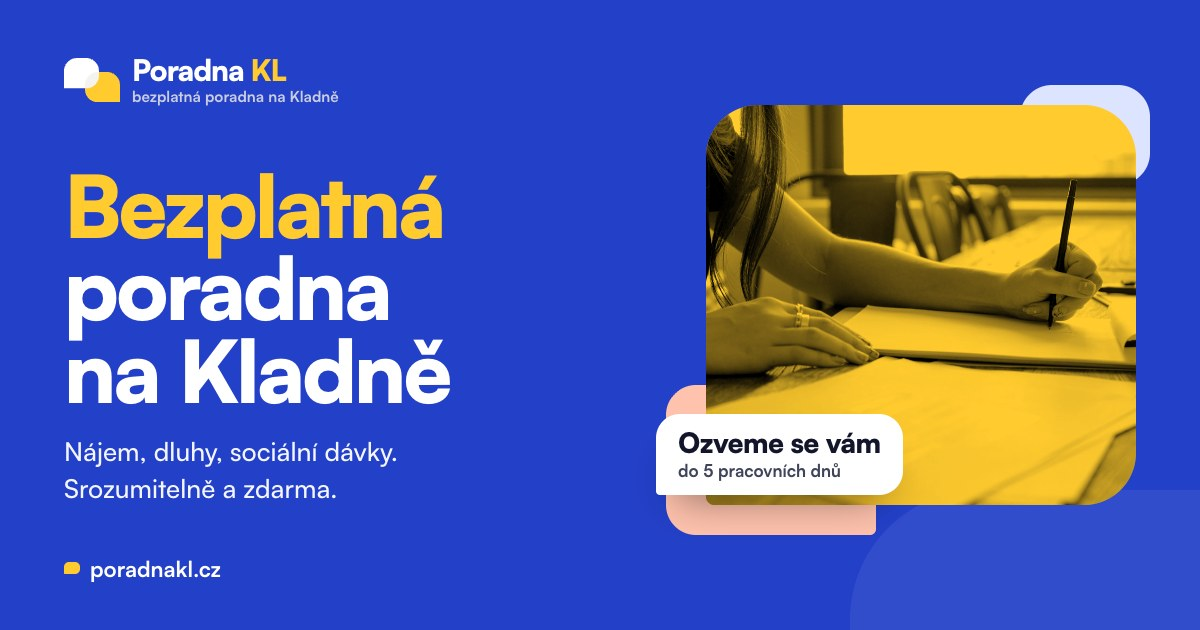
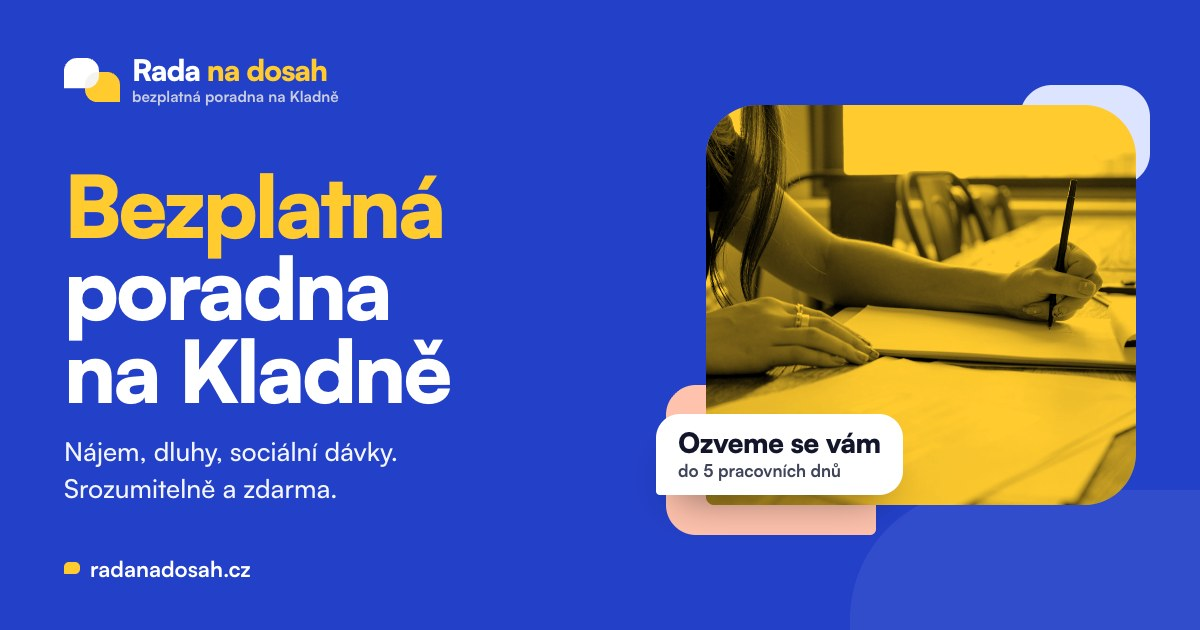
Nový název Rada na dosah, přepínač barev nejde skrýt natrvalo
- logo, titulky, meta, JSON-LD, OG obrázek, e-mail a doména radanadosah.cz
- přepínač: skrytí jen do zavření záložky, staré trvalé skrytí se ruší
- menu hamburger pod 1360 px (delší logo), JS a CSS hranice sjednocené
- menší logo na úzkých telefonech

Changed region(s): [[0.1233, 0.0905, 0.2775, 0.1508], [0.0617, 0.8746, 0.2158, 0.9349]]

diff --git a/assets/js/site.js b/assets/js/site.js
@@ -1,4 +1,4 @@
-/* Poradna KL – drobná vylepšení. Web funguje i bez JavaScriptu. */
+/* Rada na dosah – drobná vylepšení. Web funguje i bez JavaScriptu. */
 (function () {
   'use strict';
 
@@ -15,7 +15,7 @@
     var btn = $('.nav-toggle');
     var nav = $('#hlavni-menu');
     if (!btn || !nav) return;
-    var mq = window.matchMedia('(max-width: 1179px)');
+    var mq = window.matchMedia('(max-width: 1359px)');
     var label = btn.querySelector('span');
 
     function setOpen(open, returnFocus) {
@@ -147,7 +147,7 @@
     if (chyba) {
       status.className = 'form-status form-status--error';
       status.textContent = chyba === 'odeslani'
-        ? 'Zprávu se nepodařilo odeslat. Zkuste to prosím znovu, nebo napište na info@poradnakl.cz.'
+        ? 'Zprávu se nepodařilo odeslat. Zkuste to prosím znovu, nebo napište na info@radanadosah.cz.'
         : 'Formulář obsahuje chyby. Zkontrolujte prosím vyplněná pole.';
     }
 
@@ -288,7 +288,7 @@
 
     function showSuccess(demo) {
       store.del('sessionStorage', draftKey);
-      document.title = 'Děkujeme – Poradna KL';
+      document.title = 'Děkujeme – Rada na dosah';
       var html =
         '<div class="success" role="region" aria-labelledby="hotovo-title">' +
           '<div class="success__icon"><svg class="i" viewBox="0 0 256 256" aria-hidden="true" focusable="false"><path d="M229.66,77.66l-128,128a8,8,0,0,1-11.32,0l-56-56a8,8,0,0,1,11.32-11.32L96,188.69,218.34,66.34a8,8,0,0,1,11.32,11.32Z"/></svg></div>' +
@@ -331,7 +331,7 @@
         sending = false;
         btn.removeAttribute('aria-disabled');
         status.className = 'form-status form-status--error';
-        status.textContent = 'Zprávu se nepodařilo odeslat. Zkuste to prosím znovu, nebo napište na info@poradnakl.cz.';
+        status.textContent = 'Zprávu se nepodařilo odeslat. Zkuste to prosím znovu, nebo napište na info@radanadosah.cz.';
       };
       if (!endpoint) { setTimeout(function () { done(true); }, 700); return; }
       fetch(endpoint, { method: 'POST', body: data, headers: { 'Accept': 'application/json' } })
@@ -341,7 +341,7 @@
   }
 
   /* ---------- Přepínač barevných kombinací ----------
-     Nástroj pro výběr palety s klientem. Na ostré doméně (poradnakl.cz) je skrytý,
+     Nástroj pro výběr palety s klientem. Na ostré doméně (radanadosah.cz) je skrytý,
      zobrazí se s ?barvy. Odkaz na konkrétní paletu: ?paleta=les */
   var PALETTES = [
     { id: 'rozhovor', name: 'Rozhovor', note: 'původní modrá a žlutá', c: ['#2340C8', '#FFCB2E', '#DCE4FF'] },
@@ -354,10 +354,12 @@
   ];
   function initPalette() {
     var params = new URLSearchParams(location.search);
-    var hiddenByUser = store.get('localStorage', 'pkl-barvy') === '0';
-    var prod = /(^|\.)poradnakl\.cz$/.test(location.hostname);
-    if (params.has('barvy')) { store.set('localStorage', 'pkl-barvy', '1'); hiddenByUser = false; }
-    if ((prod && store.get('localStorage', 'pkl-barvy') !== '1') || hiddenByUser) return;
+    // Dřívější verze skrývala přepínač natrvalo – takové skrytí rušíme, nově platí jen do zavření záložky.
+    if (store.get('localStorage', 'pkl-barvy') === '0') store.del('localStorage', 'pkl-barvy');
+    var prod = /(^|\.)radanadosah\.cz$/.test(location.hostname);
+    if (params.has('barvy')) { store.set('localStorage', 'pkl-barvy', '1'); store.del('sessionStorage', 'pkl-barvy-skryt'); }
+    if (prod && store.get('localStorage', 'pkl-barvy') !== '1') return;
+    if (store.get('sessionStorage', 'pkl-barvy-skryt') === '1') return;
 
     var root = document.documentElement;
     var current = function () { return root.getAttribute('data-palette') || 'rozhovor'; };
@@ -372,7 +374,7 @@
           return '<li><button type="button" class="palette__opt" data-id="' + p.id + '" aria-pressed="false">' + dots(p.c) +
             '<span>' + p.name + '<small>' + p.note + '</small></span><span class="palette__check" aria-hidden="true"></span></button></li>';
         }).join('') + '</ul>' +
-        '<div class="palette__actions"><button type="button" data-act="share">Zkopírovat odkaz na tuto paletu</button><button type="button" data-act="hide">Skrýt přepínač</button></div>' +
+        '<div class="palette__actions"><button type="button" data-act="share">Zkopírovat odkaz na tuto paletu</button><button type="button" data-act="hide">Skrýt do zavření záložky</button></div>' +
         '<p class="palette__status" role="status" aria-live="polite"></p>' +
       '</div>' +
       '<button type="button" class="palette__toggle" aria-expanded="false" aria-controls="palette-panel"></button>';
@@ -408,7 +410,7 @@
       }
       var act = e.target.closest('[data-act]');
       if (!act) return;
-      if (act.getAttribute('data-act') === 'hide') { store.set('localStorage', 'pkl-barvy', '0'); wrap.remove(); return; }
+      if (act.getAttribute('data-act') === 'hide') { store.set('sessionStorage', 'pkl-barvy-skryt', '1'); wrap.remove(); return; }
       var url = location.origin + location.pathname + '?paleta=' + current();
       var done = function () { status.textContent = 'Odkaz zkopírován: ' + url; };
       if (navigator.clipboard) navigator.clipboard.writeText(url).then(done, function () { status.textContent = url; });

diff --git a/src/pages/jak-to-funguje.html b/src/pages/jak-to-funguje.html
@@ -16,10 +16,10 @@
       <ol class="chat">
         <li class="msg msg--you">
           <p class="msg__meta"><span class="msg__num" aria-hidden="true">1</span><span class="vh">Krok 1. </span>Vy</p>
-          <div class="msg__bubble"><h3>Kontaktujte nás</h3><p>Vyplňte formulář nebo napište na info@poradnakl.cz. Uveďte stručně, co řešíte.</p></div>
+          <div class="msg__bubble"><h3>Kontaktujte nás</h3><p>Vyplňte formulář nebo napište na info@radanadosah.cz. Uveďte stručně, co řešíte.</p></div>
         </li>
         <li class="msg">
-          <p class="msg__meta"><span class="msg__num" aria-hidden="true">2</span><span class="vh">Krok 2. </span>Poradna KL</p>
+          <p class="msg__meta"><span class="msg__num" aria-hidden="true">2</span><span class="vh">Krok 2. </span>Rada na dosah</p>
           <div class="msg__bubble"><h3>Ozveme se vám</h3><p>Do 5 pracovních dnů vám zavoláme nebo napíšeme a&nbsp;domluvíme termín schůzky.</p></div>
         </li>
         <li class="msg msg--sun">
@@ -27,11 +27,11 @@
           <div class="msg__bubble"><h3>Sejdeme se</h3><p>Schůzka probíhá v&nbsp;naší kanceláři na adrese T.&nbsp;G.&nbsp;Masaryka&nbsp;108, Kladno. Projdeme vaši situaci a&nbsp;navrhneme další postup.</p></div>
         </li>
         <li class="msg">
-          <p class="msg__meta"><span class="msg__num" aria-hidden="true">4</span><span class="vh">Krok 4. </span>Poradna KL</p>
+          <p class="msg__meta"><span class="msg__num" aria-hidden="true">4</span><span class="vh">Krok 4. </span>Rada na dosah</p>
           <div class="msg__bubble"><h3>Další kroky</h3><p>Podle potřeby a&nbsp;vzájemné domluvy vám poskytneme některou z&nbsp;našich <a href="{{link:sluzby}}">bezplatných služeb</a>.</p></div>
         </li>
       </ol>
-      <div class="btn-row mt-l"><a class="btn btn--primary" href="{{link:kontakt}}#formular">Vyplnit formulář {{icon:arrow-right}}</a><a class="btn btn--secondary" href="mailto:info@poradnakl.cz">{{icon:envelope-simple}}info@poradnakl.cz</a></div>
+      <div class="btn-row mt-l"><a class="btn btn--primary" href="{{link:kontakt}}#formular">Vyplnit formulář {{icon:arrow-right}}</a><a class="btn btn--secondary" href="mailto:info@radanadosah.cz">{{icon:envelope-simple}}info@radanadosah.cz</a></div>
     </section>
 
     <section class="bring print-target" id="s-sebou" aria-labelledby="bring-title">
@@ -46,7 +46,7 @@
         <li class="bring__item"><label><input type="checkbox" name="s-sebou" value="prijmy"><span>přehled příjmů, pokud řešíme dluhy nebo dávky</span></label></li>
         <li class="bring__item"><label><input type="checkbox" name="s-sebou" value="poznamky"><span>poznámky s&nbsp;důležitými daty a&nbsp;otázkami, na které se chcete zeptat</span></label></li>
       </ul>
-      <p class="bring__hint">Dokumenty nám můžete poslat i&nbsp;předem e-mailem na <a href="mailto:info@poradnakl.cz">info@poradnakl.cz</a>, ať se na schůzku můžeme připravit.</p>
+      <p class="bring__hint">Dokumenty nám můžete poslat i&nbsp;předem e-mailem na <a href="mailto:info@radanadosah.cz">info@radanadosah.cz</a>, ať se na schůzku můžeme připravit.</p>
     </section>
   </div>
 </div>

diff --git a/src/layout.html b/src/layout.html
@@ -8,14 +8,14 @@
 {{robots}}<link rel="canonical" href="{{site}}{{canonical}}">
 <meta property="og:type" content="website">
 <meta property="og:locale" content="cs_CZ">
-<meta property="og:site_name" content="Poradna KL">
+<meta property="og:site_name" content="Rada na dosah">
 <meta property="og:title" content="{{title}}">
 <meta property="og:description" content="{{description}}">
 <meta property="og:url" content="{{site}}{{canonical}}">
 <meta property="og:image" content="{{site}}/assets/img/og.jpg">
 <meta property="og:image:width" content="1200">
 <meta property="og:image:height" content="630">
-<meta property="og:image:alt" content="Poradna KL – bezplatná poradna na Kladně. Nájem, dluhy, sociální dávky.">
+<meta property="og:image:alt" content="Rada na dosah – bezplatná poradna na Kladně. Nájem, dluhy, sociální dávky.">
 <meta name="twitter:card" content="summary_large_image">
 <meta name="theme-color" content="#F4F3EE">
 <link rel="icon" href="{{asset:assets/img/favicon.svg}}" type="image/svg+xml">
@@ -31,9 +31,9 @@
 
 <header class="site-header">
   <div class="container site-header__inner">
-    <a class="brand" href="{{link:uvod}}" aria-label="Poradna KL, úvodní stránka">
+    <a class="brand" href="{{link:uvod}}" aria-label="Rada na dosah, úvodní stránka">
       {{logo}}
-      <span><span class="brand__name">Poradna <span>KL</span></span><span class="brand__sub">bezplatná poradna na Kladně</span></span>
+      <span><span class="brand__name">Rada <span>na dosah</span></span><span class="brand__sub">bezplatná poradna na Kladně</span></span>
     </a>
     <button class="nav-toggle" type="button" aria-expanded="false" aria-controls="hlavni-menu">{{icon:list}}<span>Menu</span></button>
     <nav class="nav" id="hlavni-menu" aria-label="Hlavní menu">
@@ -54,17 +54,17 @@
     <div class="container">
       <div class="site-footer__top">
         <div>
-          <a class="brand brand--light" href="{{link:uvod}}" aria-label="Poradna KL, úvodní stránka">
+          <a class="brand brand--light" href="{{link:uvod}}" aria-label="Rada na dosah, úvodní stránka">
             {{logo}}
-            <span><span class="brand__name">Poradna <span>KL</span></span><span class="brand__sub">bezplatná poradna na Kladně</span></span>
+            <span><span class="brand__name">Rada <span>na dosah</span></span><span class="brand__sub">bezplatná poradna na Kladně</span></span>
           </a>
           <p class="footer-claim">Bezplatné právní poradenství pro lidi v&nbsp;sociální nouzi. Nájem, dluhy, sociální dávky.</p>
         </div>
         <div>
-          <h2>Poradna KL, z.ú.</h2>
+          <h2>Rada na dosah, z.ú.</h2>
           <address>
             T. G. Masaryka 108, 272 01 Kladno<br>
-            <a href="mailto:info@poradnakl.cz">info@poradnakl.cz</a><br>
+            <a href="mailto:info@radanadosah.cz">info@radanadosah.cz</a><br>
             IČO <span class="todo">[doplnit]</span><br>
             Zapsaný v rejstříku ústavů vedeném <span class="todo">[soud]</span>, oddíl U, vložka <span class="todo">[číslo]</span><br>
             Datová schránka <span class="todo">[ID]</span>

diff --git a/tools/og/nazvy.html b/tools/og/nazvy.html
@@ -1,0 +1,25 @@
+<!doctype html><html lang="cs"><head><meta charset="utf-8">
+<link rel="stylesheet" href="../../assets/css/site.css">
+<style>
+ body{margin:0;background:#E9E8E3;padding:28px;display:grid;grid-template-columns:repeat(3,1fr);gap:20px;width:1500px;box-sizing:border-box}
+ .t{background:var(--paper);border-radius:28px;padding:34px 34px 28px;display:grid;gap:16px;align-content:start}
+ .t.d{background:var(--blue)}
+ .t .brand__mark{width:58px}.t .brand__name{font-size:2rem}.t .brand__sub{font-size:.95rem;margin-top:7px}
+ .t p{font-size:15px;color:var(--ink-2);line-height:1.45;font-weight:500}
+ .t.d p{color:var(--on-blue-2)}
+ .n{font:700 13px var(--text);color:var(--ink-2);text-transform:none}
+ .t.d .n{color:var(--yellow)}
+ .t.d .brand__b1{fill:#fff}
+</style></head><body>
+<script>
+const M='<svg class="brand__mark" viewBox="0 0 48 38"><path class="brand__b1" d="M11 0H19A11 11 0 0 1 30 11V15A11 11 0 0 1 19 26H0V11A11 11 0 0 1 11 0Z"/><path class="brand__b2" d="M29 12H37A11 11 0 0 1 48 23V38H29A11 11 0 0 1 18 27V23A11 11 0 0 1 29 12Z"/><path class="brand__b3" d="M29 12H30V15A11 11 0 0 1 19 26H18V23A11 11 0 0 1 29 12Z"/></svg>';
+const N=[
+ ['1 · váš návrh','Rada <span>na dosah</span>','bezplatná poradna na Kladně','Říká, že pomoc je blízko a snadno dostupná. Volná doména radanadosah.cz.'],
+ ['2','Na <span>slovíčko</span>','bezplatná poradna na Kladně','„Pojďte na slovíčko.“ Lidské, nízkoprahové, sedí k logu bublin. Volná poradnanaslovicko.cz.'],
+ ['3','Jasná <span>rada</span>','bezplatná poradna na Kladně','Slib srozumitelnosti v názvu. Krátké, dobře se pamatuje. Volná jasnarada.cz.'],
+ ['4','Poradna <span>Na rovinu</span>','bezplatná poradna na Kladně','Mluvíme na rovinu, bez právničiny. Volná poradnanarovinu.cz.'],
+ ['5','Mezi <span>řádky</span>','bezplatná poradna na Kladně','Pomůžeme přečíst úřední dopis i výzvu exekutora. Volná poradnameziradky.cz.'],
+ ['6','Kladenská <span>poradna</span>','bezplatná pomoc s nájmem, dluhy a dávkami','Nejjasnější a nejlépe dohledatelné na Googlu. Volná kladenskaporadna.cz.'],
+];
+document.write(N.map((x,i)=>`<div class="t${i===0?' d':''}"><span class="n">${x[0]}</span><span class="brand${i===0?' brand--light':''}">${M}<span><span class="brand__name">${x[1]}</span><span class="brand__sub">${x[2]}</span></span></span><p>${x[3]}</p></div>`).join(''));
+</script></body></html>

diff --git a/src/pages/uvod.html b/src/pages/uvod.html
@@ -1,10 +1,10 @@
-<!--meta {"slug":"uvod","title":"Poradna KL – bezplatná poradna na Kladně","description":"Bezplatné právní poradenství pro lidi v sociální nouzi. Nájem, dluhy, sociální dávky. Napište nám a domluvíme schůzku.","nav":"uvod","bodyclass":"page-home"} -->
+<!--meta {"slug":"uvod","title":"Rada na dosah – bezplatná poradna na Kladně","description":"Bezplatné právní poradenství pro lidi v sociální nouzi. Nájem, dluhy, sociální dávky. Napište nám a domluvíme schůzku.","nav":"uvod","bodyclass":"page-home"} -->
 <section class="hero" aria-labelledby="hero-title">
   <div class="hero__panel">
     <div class="hero__deco" aria-hidden="true"><span class="bubble d1"></span></div>
     <div class="container hero__grid">
       <div class="hero__copy">
-        <p class="hero__eyebrow">{{icon:map-pin}}Poradna KL, Kladno</p>
+        <p class="hero__eyebrow">{{icon:map-pin}}Rada na dosah, Kladno</p>
         <h1 id="hero-title"><em>Bezplatná</em> poradna na&nbsp;Kladně</h1>
         <p class="lead">Poradíme vám s&nbsp;nájmem, dluhy nebo sociálními dávkami. Srozumitelně a&nbsp;<strong>zdarma</strong>. Najdete nás na&nbsp;Kladně.</p>
         <div class="btn-row">
@@ -76,7 +76,7 @@
         </div>
       </li>
       <li class="msg">
-        <p class="msg__meta"><span class="msg__num" aria-hidden="true">2</span><span class="vh">Krok 2. </span>Poradna KL</p>
+        <p class="msg__meta"><span class="msg__num" aria-hidden="true">2</span><span class="vh">Krok 2. </span>Rada na dosah</p>
         <div class="msg__bubble">
           <h3>Ozveme se vám</h3>
           <p>Do 5 pracovních dnů vám zavoláme nebo napíšeme a&nbsp;domluvíme termín.</p>

diff --git a/assets/css/site.css b/assets/css/site.css
@@ -169,7 +169,7 @@ a:focus-visible .i { color: var(--ink); }
 .nav__cta { margin-left: 10px; }
 .nav__cta .btn { min-height: 50px; padding: .55em 1.25em; font-size: 1.0625rem; }
 .nav-toggle { display: none; }
-@media (max-width: 1239px) {
+@media (max-width: 1359px) {
   .js .nav-toggle { display: inline-flex; align-items: center; gap: 8px; min-height: 48px; padding: 0 18px 0 14px; border: 2px solid var(--ink); border-radius: 999px; background: transparent; color: var(--ink); font: inherit; font-size: 1.0625rem; font-weight: 700; cursor: pointer; }
   .nav-toggle .i { width: 24px; height: 24px; }
   .nav-toggle[aria-expanded="true"] { background: var(--ink); color: var(--paper); }
@@ -650,3 +650,15 @@ main > .section:last-child { padding-bottom: 0; }
 .palette__actions button { min-height: 44px; padding: 0; border: 0; background: none; color: var(--ink); font: inherit; font-size: .9375rem; font-weight: 700; text-decoration: underline; text-underline-offset: .2em; cursor: pointer; }
 .palette__status { font-size: .875rem; color: var(--ink-2); min-height: 1.2em; }
 @media print { .palette { display: none !important; } }
+
+/* Delší název „Rada na dosah“: menší logo na úzkých telefonech */
+@media (max-width: 429px) {
+  .site-header .brand { gap: 10px; }
+  .site-header .brand__mark { width: 40px; }
+  .site-header .brand__name { font-size: 1.3125rem; }
+  .site-header .brand__sub { font-size: .75rem; }
+  .js .nav-toggle { padding: 0 14px 0 12px; }
+}
+@media (max-width: 369px) {
+  .site-header .brand__sub { display: none; }
+}

diff --git a/src/pages/caste-dotazy.html b/src/pages/caste-dotazy.html
@@ -1,4 +1,4 @@
-<!--meta {"slug":"caste-dotazy","title":"Časté dotazy – Poradna KL","description":"Je pomoc opravdu zdarma? Zastoupíte mě u soudu? Odpovědi na nejčastější otázky.","nav":"caste-dotazy","faq":true} -->
+<!--meta {"slug":"caste-dotazy","title":"Časté dotazy – Rada na dosah","description":"Je pomoc opravdu zdarma? Zastoupíte mě u soudu? Odpovědi na nejčastější otázky.","nav":"caste-dotazy","faq":true} -->
 <section class="page-head" aria-labelledby="page-title">
   <div class="page-head__panel">
     {{deco}}
@@ -44,7 +44,7 @@
         </details>
         <details id="dokumenty">
           <summary><span>Můžu vám poslat dokumenty e-mailem předem?</span><span class="faq__icon" aria-hidden="true">{{icon:caret-down}}</span></summary>
-          <div class="faq__answer"><p>Prosíme, pošlete nám co nejvíce dokumentů na <a href="mailto:info@poradnakl.cz">info@poradnakl.cz</a>, ať se na schůzku můžeme připravit. Jinak je vezměte alespoň s&nbsp;sebou na schůzku.</p></div>
+          <div class="faq__answer"><p>Prosíme, pošlete nám co nejvíce dokumentů na <a href="mailto:info@radanadosah.cz">info@radanadosah.cz</a>, ať se na schůzku můžeme připravit. Jinak je vezměte alespoň s&nbsp;sebou na schůzku.</p></div>
         </details>
         <details id="doprovod">
           <summary><span>Můžu přijít s doprovodem?</span><span class="faq__icon" aria-hidden="true">{{icon:caret-down}}</span></summary>

diff --git a/src/pages/kontakt.html b/src/pages/kontakt.html
@@ -14,10 +14,10 @@
     <section class="contact-info" aria-labelledby="udaje-title">
       <h2 id="udaje-title">Kontaktní údaje</h2>
       <ul class="facts">
-        <li class="fact">{{icon:users-three}}<span><strong>Poradna KL, z.ú.</strong></span></li>
+        <li class="fact">{{icon:users-three}}<span><strong>Rada na dosah, z.ú.</strong></span></li>
         <li class="fact">{{icon:map-pin}}<span><strong>T. G. Masaryka 108, 272 01 Kladno</strong>
           <span class="inline-actions"><a href="https://mapy.cz/?q=T.%20G.%20Masaryka%20108%2C%20Kladno">Mapy.cz</a><a href="https://www.google.com/maps/search/?api=1&amp;query=T.+G.+Masaryka+108,+272+01+Kladno">Google Mapy</a></span></span></li>
-        <li class="fact">{{icon:envelope-simple}}<span><strong><a href="mailto:info@poradnakl.cz" id="email">info@poradnakl.cz</a></strong>
+        <li class="fact">{{icon:envelope-simple}}<span><strong><a href="mailto:info@radanadosah.cz" id="email">info@radanadosah.cz</a></strong>
           <span class="inline-actions"><button class="copy-btn" type="button" data-copy="#email" hidden>{{icon:copy}}Zkopírovat e-mail</button></span></span></li>
         <li class="fact">{{icon:calendar-check}}<span><strong>Schůzky jen po předchozí domluvě.</strong></span></li>
         <li class="fact">{{icon:wheelchair}}<span><strong>Kancelář je bezbariérová.</strong>Můžete přijít i&nbsp;s&nbsp;doprovodem.</span></li>

diff --git a/api/kontakt.js b/api/kontakt.js
@@ -1,8 +1,8 @@
 // Vercel Serverless Function: příjem formuláře „Požádat o schůzku“ a odeslání e-mailem přes Resend.
 // Proměnné prostředí (Vercel → Settings → Environment Variables):
 //   RESEND_API_KEY  klíč z https://resend.com (doména odesílatele musí být ověřená)
-//   KONTAKT_FROM    odesílatel, např. "Web Poradna KL <web@poradnakl.cz>"
-//   KONTAKT_TO      příjemce, výchozí info@poradnakl.cz
+//   KONTAKT_FROM    odesílatel, např. "Web Rada na dosah <web@radanadosah.cz>"
+//   KONTAKT_TO      příjemce, výchozí info@radanadosah.cz
 // Bez nastavení vrací 503 a formulář uživateli nabídne napsat e-mailem. Data se nikam neukládají.
 
 const TEMATA = ['Nájem a bydlení', 'Dluhy a exekuce', 'Sociální dávky', 'Jiné'];
@@ -43,11 +43,11 @@ export default async function handler(req, res) {
 
   const key = process.env.RESEND_API_KEY;
   const from = process.env.KONTAKT_FROM;
-  const to = process.env.KONTAKT_TO || 'info@poradnakl.cz';
+  const to = process.env.KONTAKT_TO || 'info@radanadosah.cz';
   if (!key || !from) return reply(503, { ok: false, error: 'not-configured' }, '/kontakt/?chyba=odeslani#formular');
 
   const text = [
-    'Nová žádost o schůzku z webu Poradna KL',
+    'Nová žádost o schůzku z webu Rada na dosah',
     '',
     `Jméno a příjmení: ${data.jmeno}`,
     `Telefon: ${data.telefon || '–'}`,

diff --git a/src/pages/pristupnost.html b/src/pages/pristupnost.html
@@ -1,4 +1,4 @@
-<!--meta {"slug":"pristupnost","title":"Prohlášení o přístupnosti – Poradna KL","description":"Jak dbáme na to, aby web Poradny KL mohl používat každý, a jak nám nahlásit problém.","nav":""} -->
+<!--meta {"slug":"pristupnost","title":"Prohlášení o přístupnosti – Rada na dosah","description":"Jak dbáme na to, aby náš web mohl používat každý, a jak nám nahlásit problém.","nav":""} -->
 <section class="page-head" aria-labelledby="page-title">
   <div class="page-head__panel">
     {{deco}}
@@ -16,7 +16,7 @@
     <p><span class="todo">[Doplnit stav souladu po kontrole: plně / částečně v souladu a případné výjimky.]</span></p>
 
     <h2 id="problem">Narazili jste na problém?</h2>
-    <p>Pokud vám na webu něco nefunguje nebo je pro vás špatně čitelné, napište nám na <a href="mailto:info@poradnakl.cz">info@poradnakl.cz</a>. Informaci vám rádi pošleme e-mailem nebo ji probereme osobně.</p>
+    <p>Pokud vám na webu něco nefunguje nebo je pro vás špatně čitelné, napište nám na <a href="mailto:info@radanadosah.cz">info@radanadosah.cz</a>. Informaci vám rádi pošleme e-mailem nebo ji probereme osobně.</p>
 
     <p class="muted mt-l">Prohlášení bylo vypracováno <span class="todo">[datum]</span>.</p>
   </div>

diff --git a/src/pages/o-nas.html b/src/pages/o-nas.html
@@ -1,10 +1,10 @@
-<!--meta {"slug":"o-nas","title":"O nás – Poradna KL, z.ú.","description":"Nezisková organizace z Kladna, která pomáhá lidem v sociální nouzi dostat se k právní pomoci.","nav":"o-nas"} -->
+<!--meta {"slug":"o-nas","title":"O nás – Rada na dosah, z.ú.","description":"Nezisková organizace z Kladna, která pomáhá lidem v sociální nouzi dostat se k právní pomoci.","nav":"o-nas"} -->
 <section class="page-head" aria-labelledby="page-title">
   <div class="page-head__panel">
     {{deco}}
     <div class="container">
     <h1 id="page-title">O nás</h1>
-    <p class="lead">Poradna KL, z.ú., je nezisková organizace z&nbsp;Kladna.</p>
+    <p class="lead">Rada na dosah, z.ú., je nezisková organizace z&nbsp;Kladna.</p>
     </div>
   </div>
 </section>
@@ -60,7 +60,7 @@
     <div class="volunteer">
       <span class="area__icon">{{icon:graduation-cap}}</span>
       <h2 id="pravnik-title">Jste právník nebo student práv a&nbsp;chcete pomáhat?</h2>
-      <p>Napište nám na <a href="mailto:info@poradnakl.cz">info@poradnakl.cz</a>.</p>
+      <p>Napište nám na <a href="mailto:info@radanadosah.cz">info@radanadosah.cz</a>.</p>
     </div>
   </div>
 </section>

diff --git a/src/pages/ochrana-osobnich-udaju.html b/src/pages/ochrana-osobnich-udaju.html
@@ -1,4 +1,4 @@
-<!--meta {"slug":"ochrana-osobnich-udaju","title":"Ochrana osobních údajů – Poradna KL","description":"Jak zpracováváme osobní údaje klientů a návštěvníků webu.","nav":""} -->
+<!--meta {"slug":"ochrana-osobnich-udaju","title":"Ochrana osobních údajů – Rada na dosah","description":"Jak zpracováváme osobní údaje klientů a návštěvníků webu.","nav":""} -->
 <section class="page-head" aria-labelledby="page-title">
   <div class="page-head__panel">
     {{deco}}
@@ -12,7 +12,7 @@
 <div class="section">
   <div class="container legal">
     <h2 id="spravce">Kdo je správce</h2>
-    <p>Poradna KL, z.ú., IČO <span class="todo">[doplnit]</span>, se sídlem T. G. Masaryka 108, 272 01 Kladno. Kontakt pro otázky k&nbsp;osobním údajům: <a href="mailto:info@poradnakl.cz">info@poradnakl.cz</a>.</p>
+    <p>Rada na dosah, z.ú., IČO <span class="todo">[doplnit]</span>, se sídlem T. G. Masaryka 108, 272 01 Kladno. Kontakt pro otázky k&nbsp;osobním údajům: <a href="mailto:info@radanadosah.cz">info@radanadosah.cz</a>.</p>
 
     <h2 id="udaje">Jaké údaje zpracováváme</h2>
     <ul>
